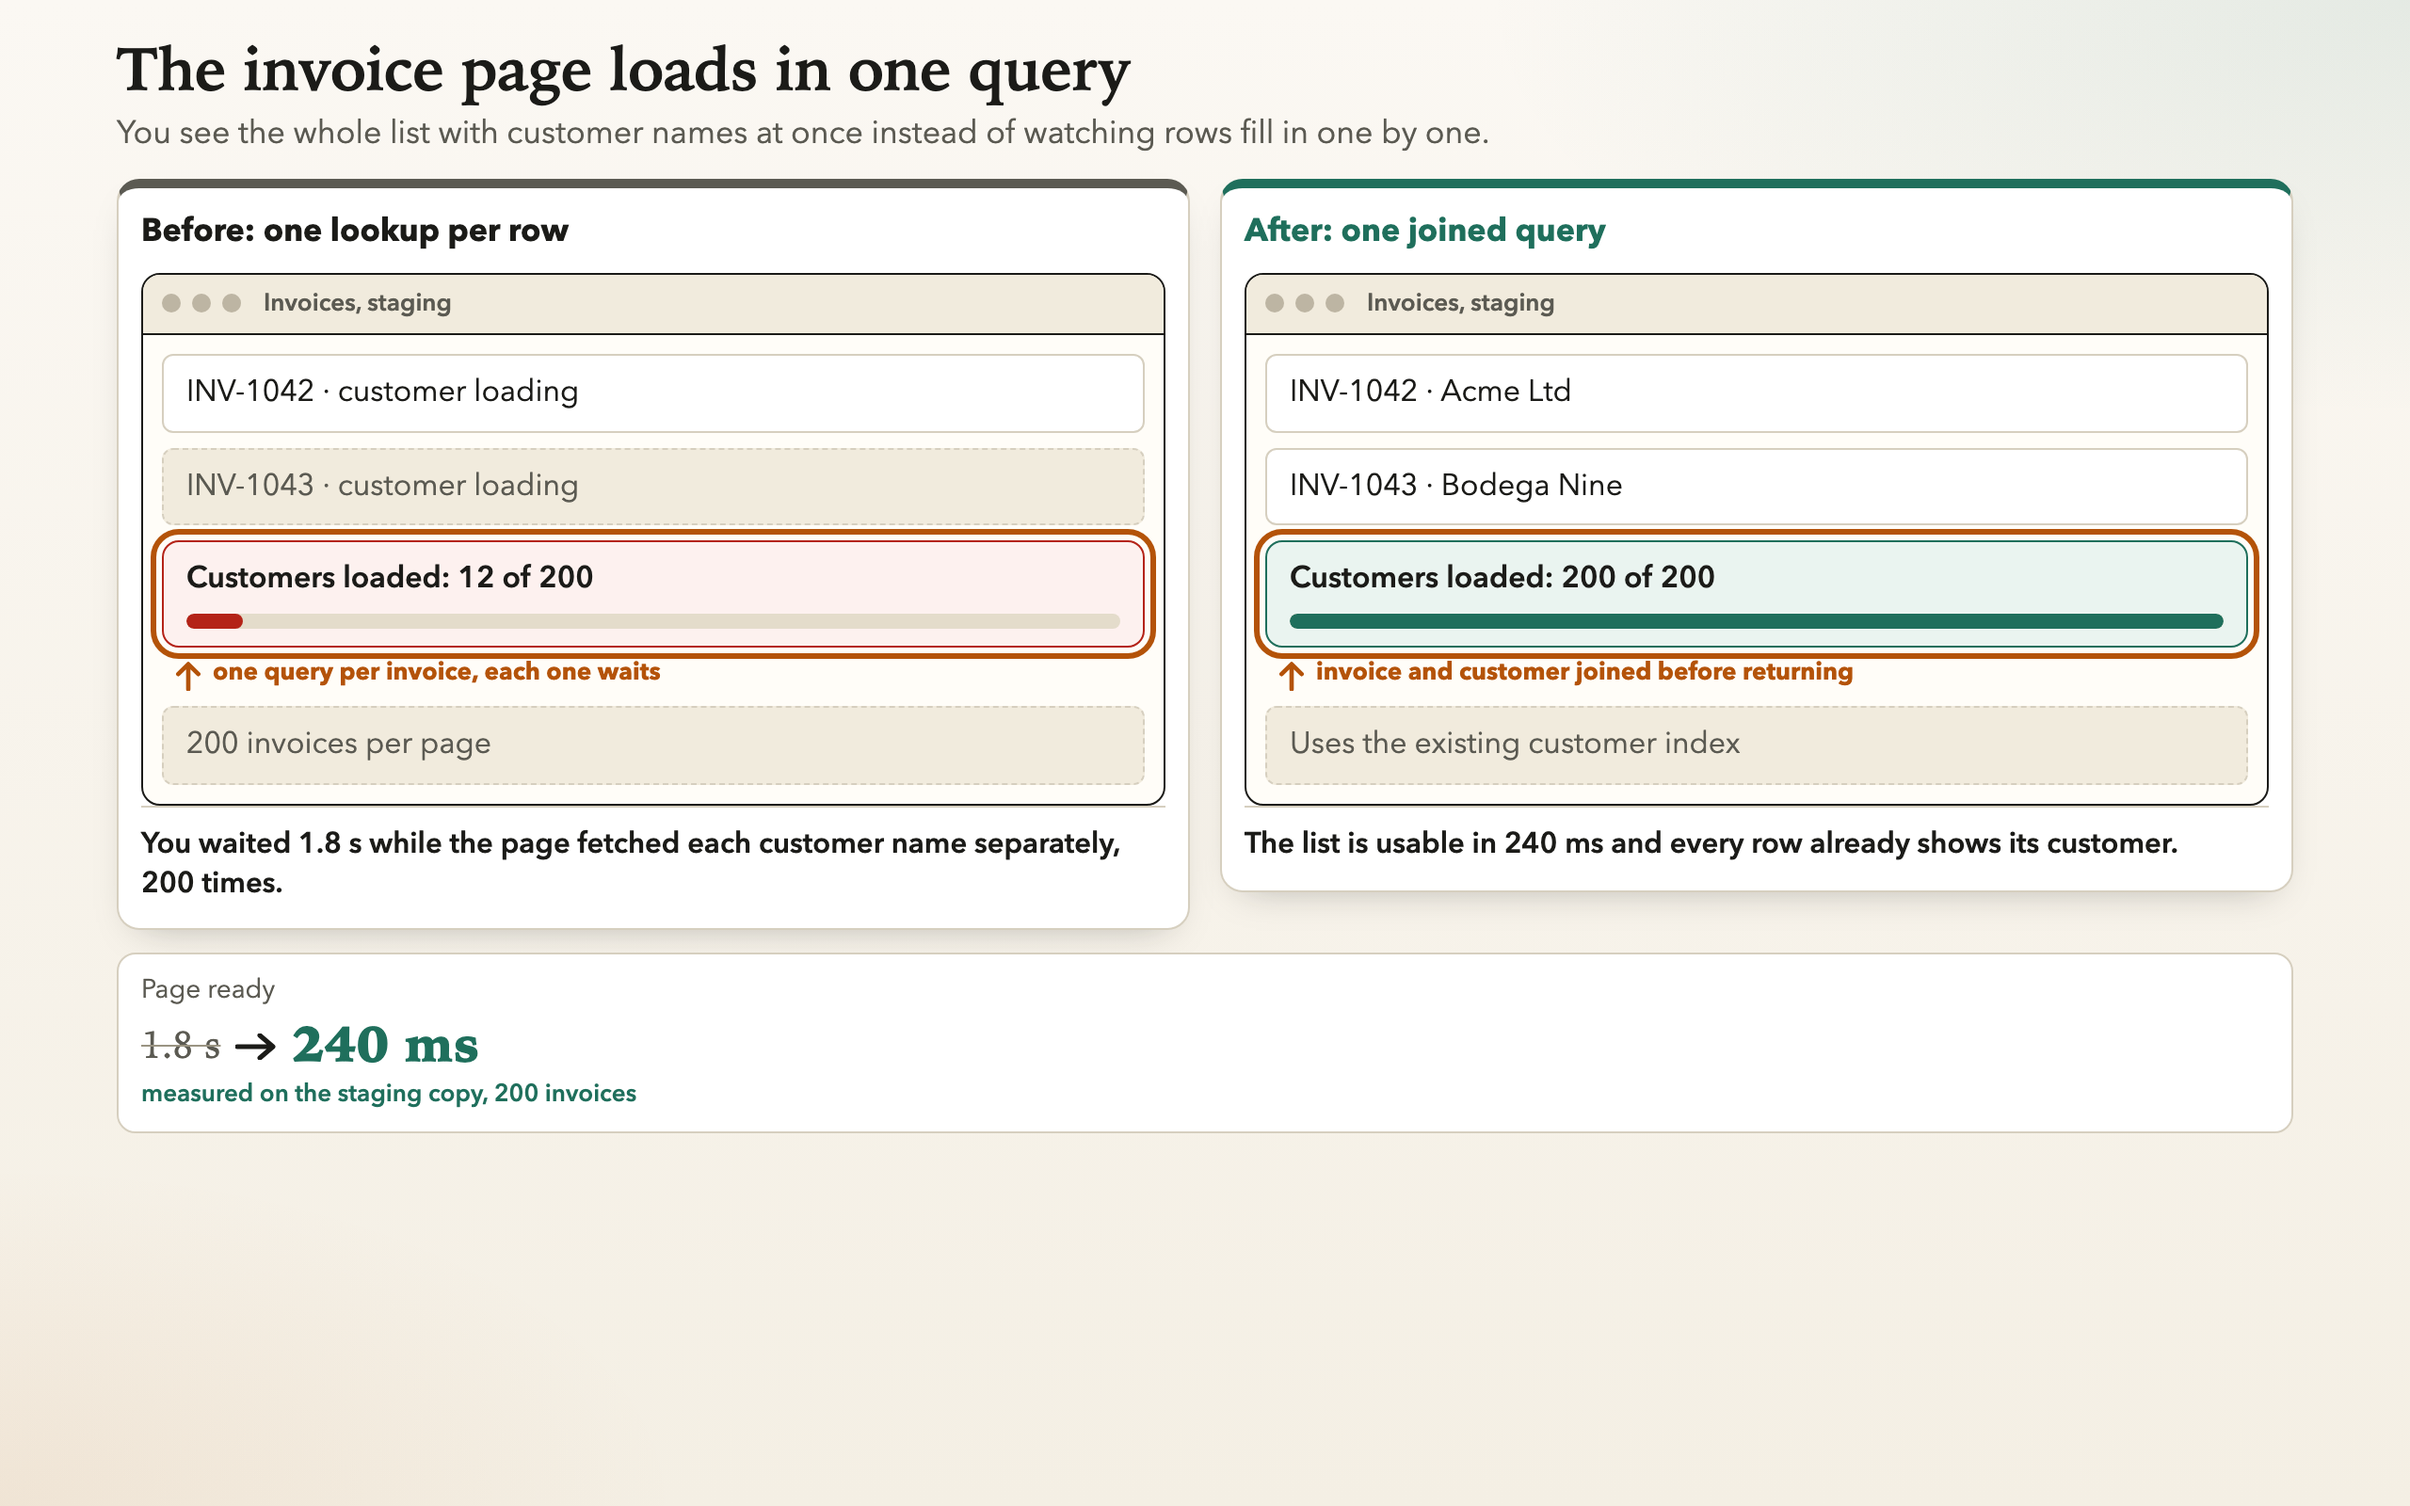
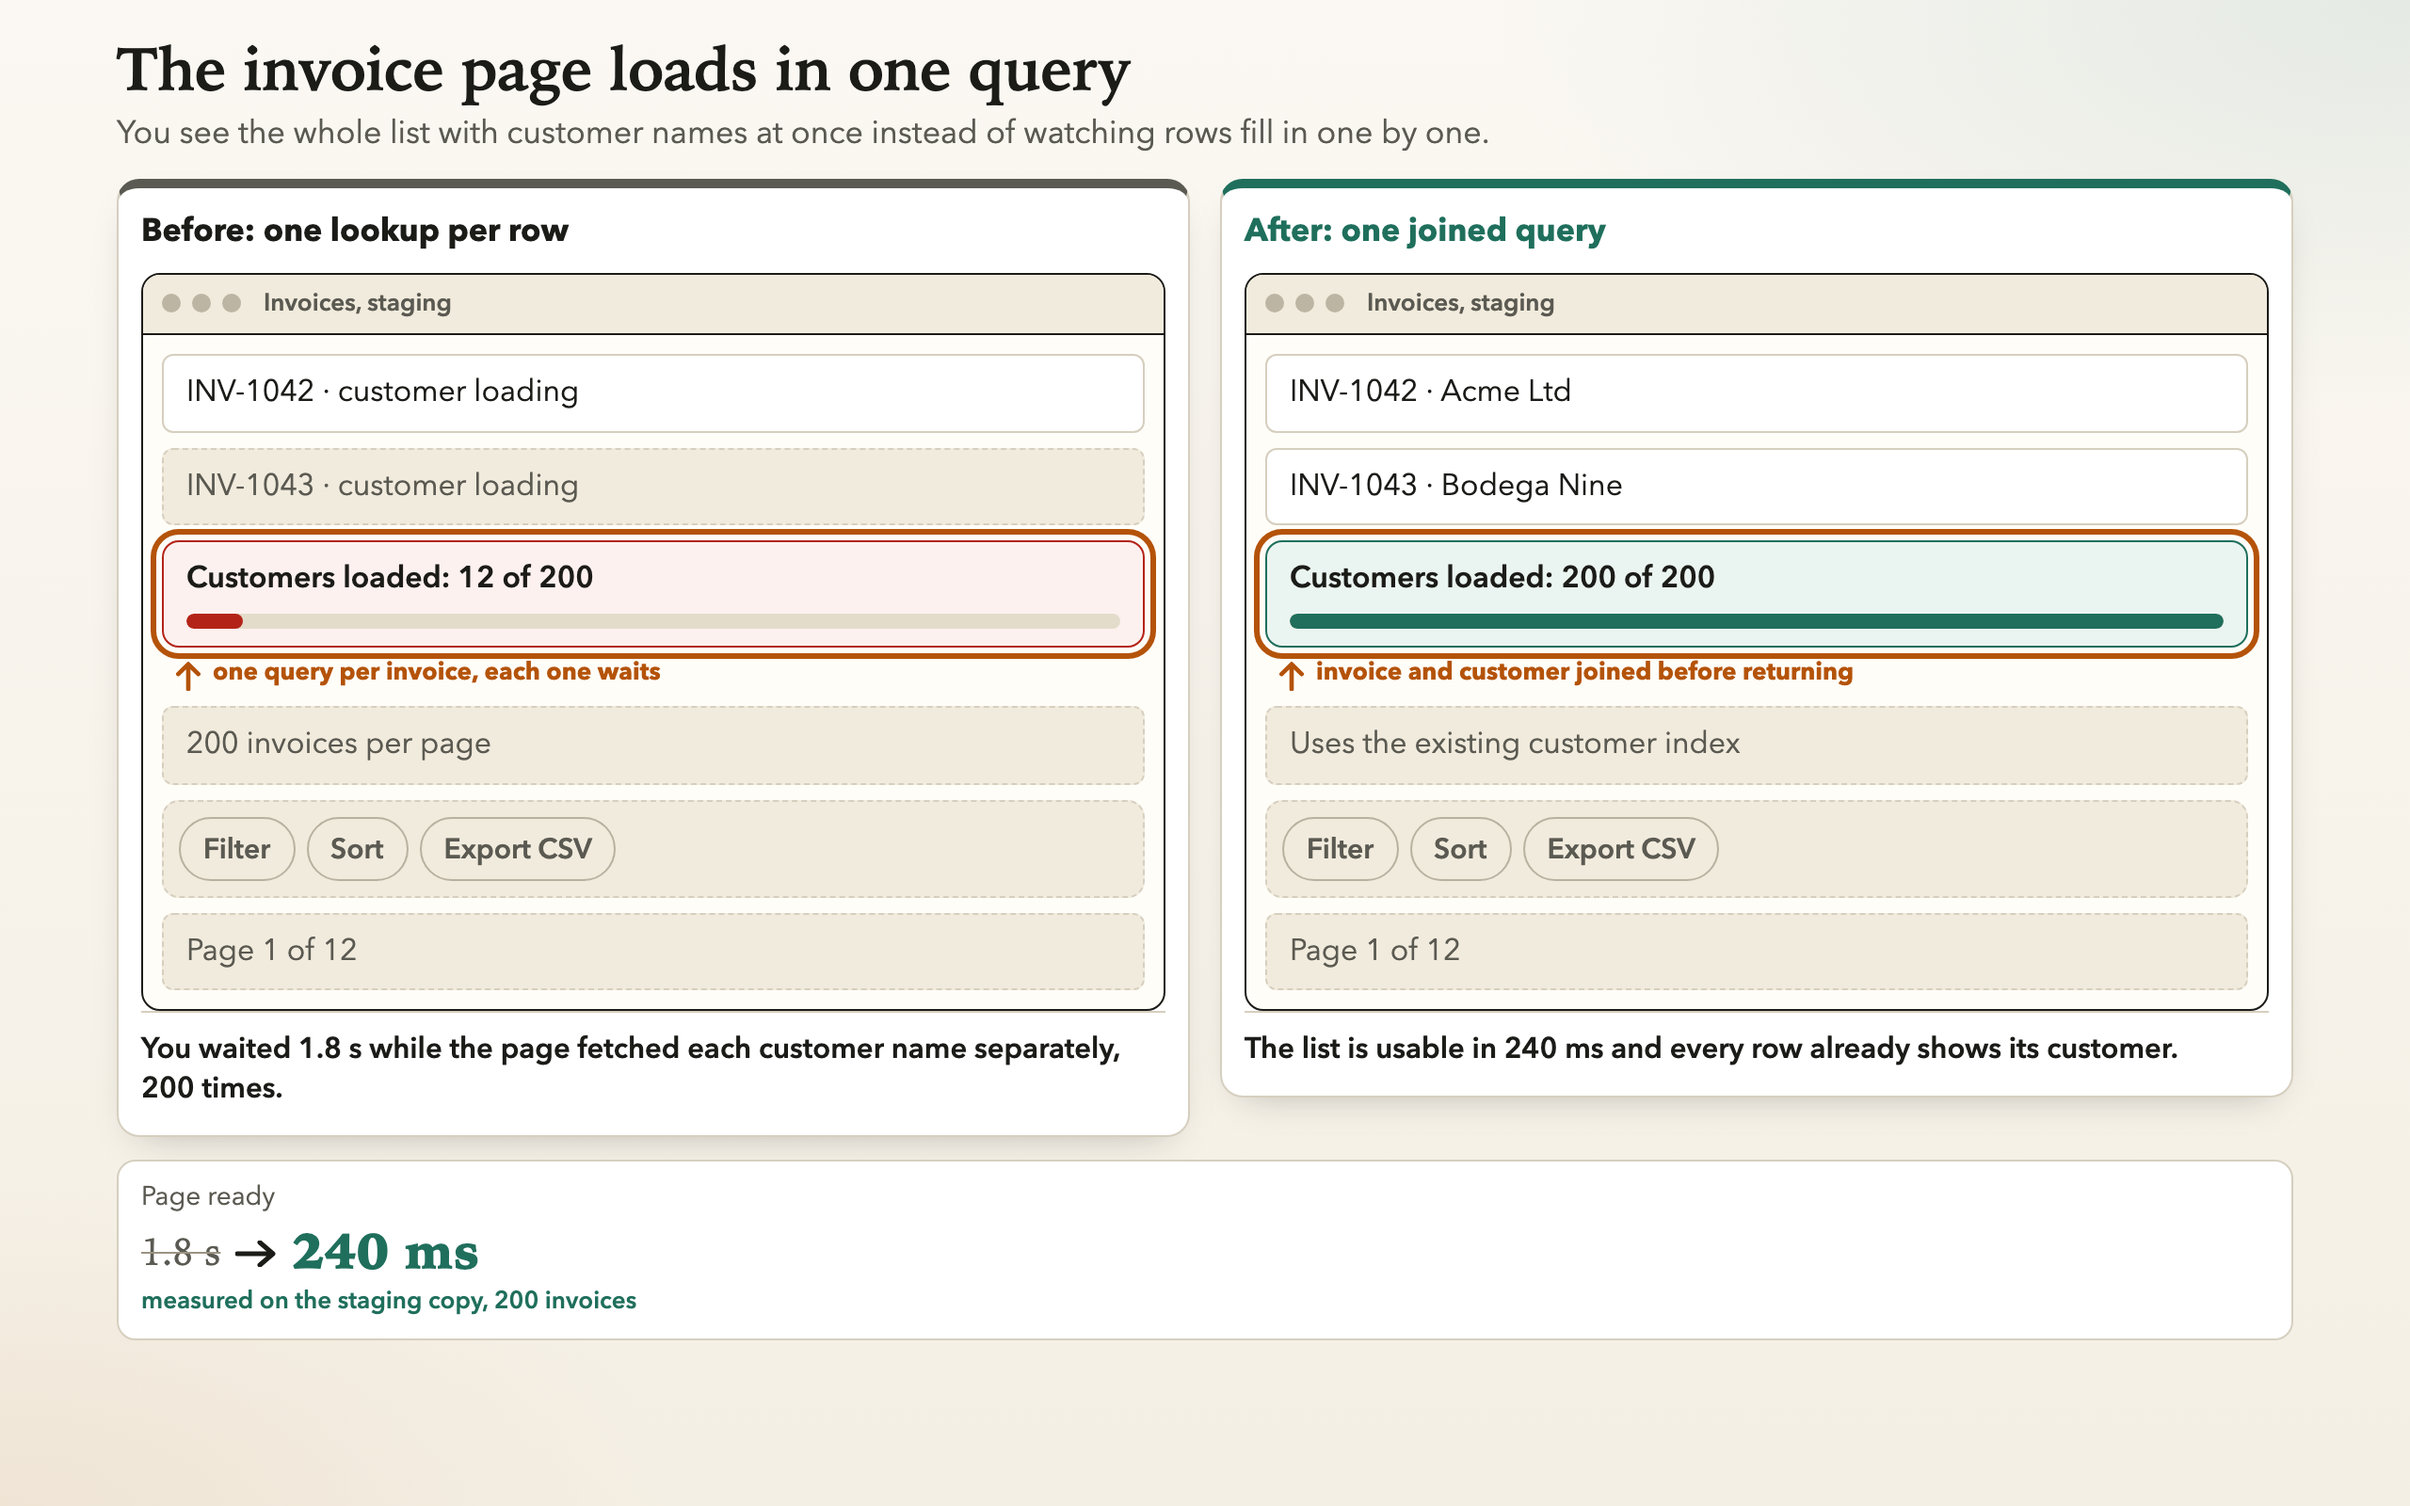
docs: fuller invoice mockup in the example's before/after panels

Changed region(s): [[0.0312, 0.5312, 0.9688, 0.9062]]

diff --git a/examples/explain/explain.html b/examples/explain/explain.html
@@ -101,6 +101,6 @@ h1{font-family:"Iowan Old Style","Source Serif 4","Palatino Linotype",Georgia,se
 @media(min-width:760px){.ps.two{grid-template-columns:repeat(2,minmax(0,1fr));gap:16px}h1{font-size:32px}.ex{padding:20px 22px 22px}.jy{flex-direction:row;align-items:stretch}.st{flex:1;padding:36px 10px 10px}.sn{top:8px}.sa{display:flex;align-items:center;color:var(--muted-foreground,#5b5a52)}}
 </style></head><body><main class="ex">
 <h1>The invoice page loads in one query</h1><p class="tk">You see the whole list with customer names at once instead of watching rows fill in one by one.</p>
-<section class="ps two"><article class="pn"><h2>Before: one lookup per row</h2><div class="fr mac"><div class="tb"><i></i><i></i><i></i><span>Invoices, staging</span></div><div class="fb"><div class="ew"><div class="el row s-normal">INV-1042 · customer loading</div></div><div class="ew"><div class="el row s-muted">INV-1043 · customer loading</div></div><div class="ew hl"><div class="el bar s-bad"><span>Customers loaded: 12 of 200</span><div class="trk"><b style="width:6%"></b></div></div><div class="an"><svg width="16" height="16" viewBox="0 0 18 18" aria-hidden="true"><path d="M9 17V3M3 8l6-6 6 6" fill="none" stroke="currentColor" stroke-width="2.6" stroke-linecap="round" stroke-linejoin="round"/></svg><span>one query per invoice, each one waits</span></div></div><div class="ew"><div class="el row s-muted">200 invoices per page</div></div></div></div><p class="cp">You waited 1.8 s while the page fetched each customer name separately, 200 times.</p></article><article class="pn a"><h2>After: one joined query</h2><div class="fr mac"><div class="tb"><i></i><i></i><i></i><span>Invoices, staging</span></div><div class="fb"><div class="ew"><div class="el row s-normal">INV-1042 · Acme Ltd</div></div><div class="ew"><div class="el row s-normal">INV-1043 · Bodega Nine</div></div><div class="ew hl"><div class="el bar s-good"><span>Customers loaded: 200 of 200</span><div class="trk"><b style="width:100%"></b></div></div><div class="an"><svg width="16" height="16" viewBox="0 0 18 18" aria-hidden="true"><path d="M9 17V3M3 8l6-6 6 6" fill="none" stroke="currentColor" stroke-width="2.6" stroke-linecap="round" stroke-linejoin="round"/></svg><span>invoice and customer joined before returning</span></div></div><div class="ew"><div class="el row s-muted">Uses the existing customer index</div></div></div></div><p class="cp">The list is usable in 240 ms and every row already shows its customer.</p></article></section>
+<section class="ps two"><article class="pn"><h2>Before: one lookup per row</h2><div class="fr mac"><div class="tb"><i></i><i></i><i></i><span>Invoices, staging</span></div><div class="fb"><div class="ew"><div class="el row s-normal">INV-1042 · customer loading</div></div><div class="ew"><div class="el row s-muted">INV-1043 · customer loading</div></div><div class="ew hl"><div class="el bar s-bad"><span>Customers loaded: 12 of 200</span><div class="trk"><b style="width:6%"></b></div></div><div class="an"><svg width="16" height="16" viewBox="0 0 18 18" aria-hidden="true"><path d="M9 17V3M3 8l6-6 6 6" fill="none" stroke="currentColor" stroke-width="2.6" stroke-linecap="round" stroke-linejoin="round"/></svg><span>one query per invoice, each one waits</span></div></div><div class="ew"><div class="el row s-muted">200 invoices per page</div></div><div class="ew"><div class="el ctl s-muted"><span>Filter</span><span>Sort</span><span>Export CSV</span></div></div><div class="ew"><div class="el row s-muted">Page 1 of 12</div></div></div></div><p class="cp">You waited 1.8 s while the page fetched each customer name separately, 200 times.</p></article><article class="pn a"><h2>After: one joined query</h2><div class="fr mac"><div class="tb"><i></i><i></i><i></i><span>Invoices, staging</span></div><div class="fb"><div class="ew"><div class="el row s-normal">INV-1042 · Acme Ltd</div></div><div class="ew"><div class="el row s-normal">INV-1043 · Bodega Nine</div></div><div class="ew hl"><div class="el bar s-good"><span>Customers loaded: 200 of 200</span><div class="trk"><b style="width:100%"></b></div></div><div class="an"><svg width="16" height="16" viewBox="0 0 18 18" aria-hidden="true"><path d="M9 17V3M3 8l6-6 6 6" fill="none" stroke="currentColor" stroke-width="2.6" stroke-linecap="round" stroke-linejoin="round"/></svg><span>invoice and customer joined before returning</span></div></div><div class="ew"><div class="el row s-muted">Uses the existing customer index</div></div><div class="ew"><div class="el ctl s-muted"><span>Filter</span><span>Sort</span><span>Export CSV</span></div></div><div class="ew"><div class="el row s-muted">Page 1 of 12</div></div></div></div><p class="cp">The list is usable in 240 ms and every row already shows its customer.</p></article></section>
 <ul class="mx"><li><span class="ml">Page ready</span><span class="mv"><s>1.8 s</s><svg width="22" height="14" viewBox="0 0 22 14" aria-hidden="true"><path d="M1 7h18M13 1l7 6-7 6" fill="none" stroke="currentColor" stroke-width="2.5" stroke-linecap="round" stroke-linejoin="round"/></svg><b>240 ms</b></span><span class="tg ms">measured on the staging copy, 200 invoices</span></li></ul>
 </main></body></html>
